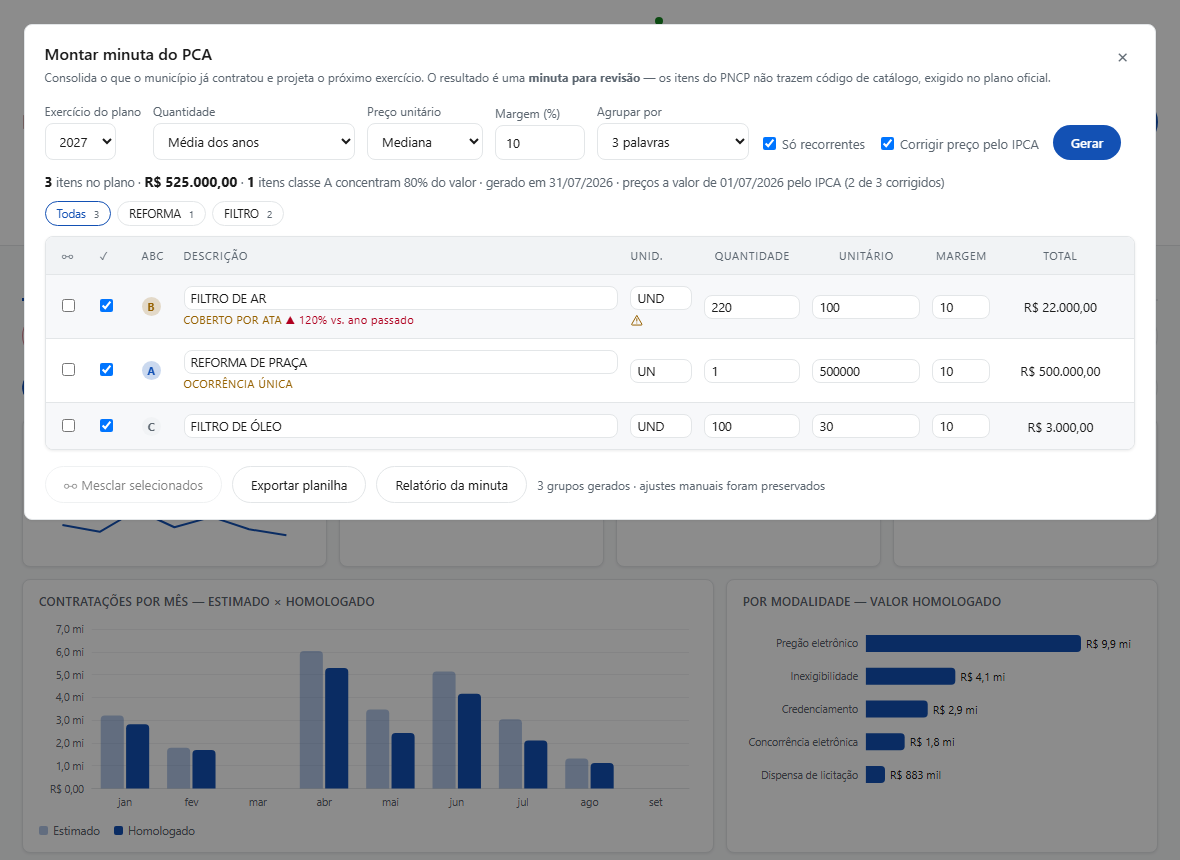
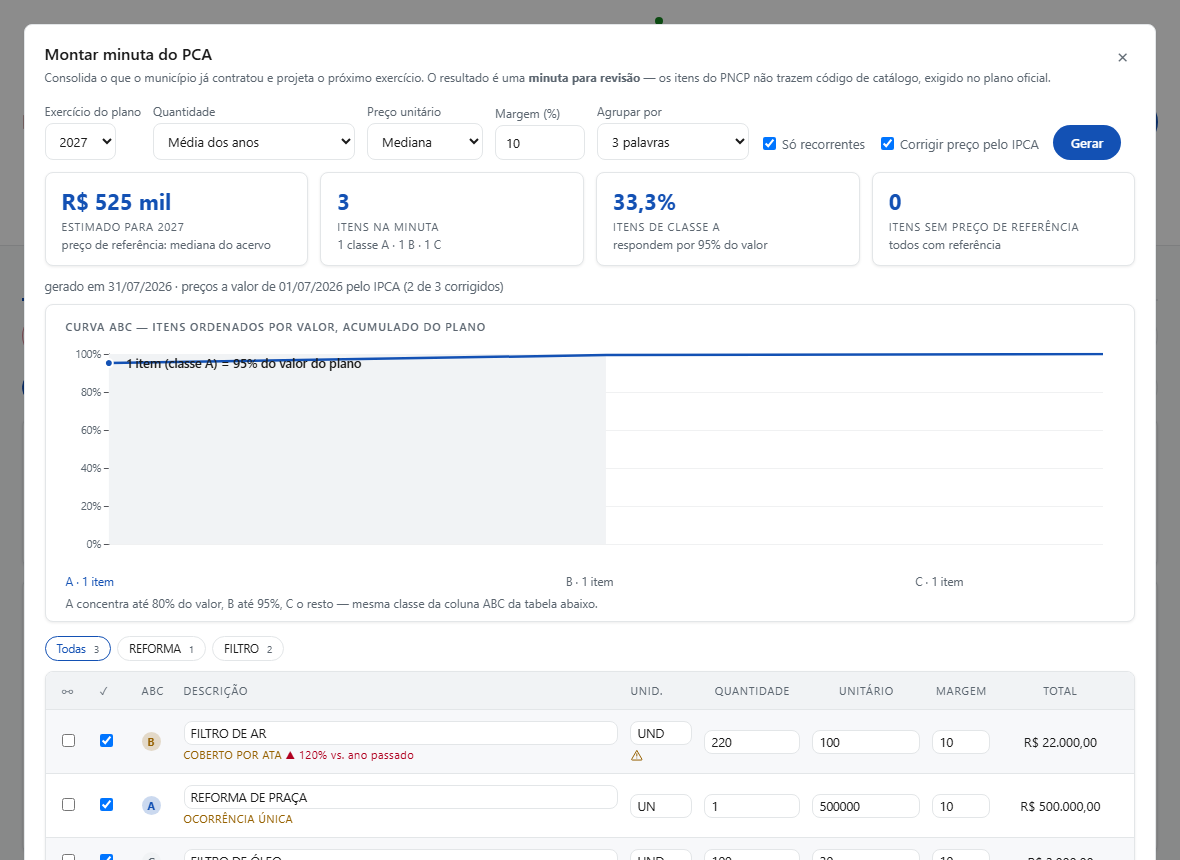
feat: curva ABC na tela de Montar PCA (Fase 1 do handoff de dashboard)
pca_builder.classificar_abc já calculava a classe A/B/C de cada item
(já aparecia na tabela), mas nunca virava agregado visual. Novo
grafCurvaABC mostra a curva acumulada com as faixas A/B/C sombreadas e
o corte de 80% rotulado; 4 cartões de KPI resumem o que antes só saía
numa linha de texto. Zero SQL nova.

Primeira de 12 fases do handoff "Dashboard de Licitações Públicas"
feito no Claude Design (plano em
C:\Users\devtu\.claude\plans\sorted-soaring-lamport.md).

diff --git a/MANUAL.html b/MANUAL.html
@@ -2,11 +2,11 @@
 <html lang="pt-BR">
 <head>
 <meta charset="utf-8">
-<title>Manual Operacional — Licitarium Free v2.0.0</title>
+<title>Manual Operacional — Licitarium Free v2.1.0</title>
 <style>
   @page {
     size: A4; margin: 2cm 1.8cm;
-    @top-center { content: "Licitarium Free v2.0.0 — Manual Operacional"; font-size: 9pt; color: #6f5b3e; }
+    @top-center { content: "Licitarium Free v2.1.0 — Manual Operacional"; font-size: 9pt; color: #6f5b3e; }
     @bottom-right { content: "Página " counter(page) " de " counter(pages);
                     font-size: 9pt; color: #6f5b3e; }
   }
@@ -155,7 +155,7 @@
     <path d="M21.22 61.67Q21.16 61.67 21.12 61.65Q21.09 61.64 21.09 61.61Q21.09 61.58 21.13 61.56Q21.17 61.54 21.23 61.53Q21.35 61.5 21.42 61.41Q21.5 61.32 21.52 61.17Q21.57 60.82 21.61 60.47Q21.64 60.11 21.67 59.79Q21.7 59.47 21.71 59.22Q21.71 59.19 21.71 59.14Q21.71 59.1 21.71 59.06Q21.7 59.01 21.69 58.97Q21.67 58.93 21.62 58.89Q21.55 58.83 21.47 58.81Q21.4 58.78 21.3 58.76Q21.26 58.75 21.23 58.73Q21.2 58.7 21.2 58.67Q21.2 58.63 21.24 58.62Q21.28 58.61 21.34 58.61Q21.4 58.61 21.49 58.61Q21.59 58.62 21.71 58.63Q21.82 58.63 21.93 58.64Q22.03 58.64 22.1 58.64Q22.14 58.64 22.16 58.66Q22.19 58.69 22.2 58.72Q22.22 58.81 22.25 58.89Q22.27 58.98 22.31 59.07L23.02 60.84Q23.03 60.87 23.06 60.88Q23.09 60.88 23.11 60.85L23.93 59.08Q23.96 58.98 23.98 58.88Q24 58.78 24.02 58.71Q24.03 58.65 24.07 58.65H24.25Q24.41 58.64 24.59 58.63Q24.76 58.61 24.85 58.61Q24.89 58.61 24.92 58.62Q24.96 58.63 24.96 58.66Q24.96 58.7 24.93 58.71Q24.9 58.73 24.84 58.76Q24.79 58.77 24.73 58.8Q24.67 58.82 24.62 58.84Q24.55 58.88 24.51 58.93Q24.46 58.98 24.47 59.07Q24.47 59.4 24.48 59.67Q24.5 59.94 24.51 60.19Q24.52 60.43 24.54 60.68Q24.56 60.93 24.57 61.2Q24.58 61.34 24.67 61.41Q24.75 61.49 24.92 61.52Q24.98 61.54 25.02 61.56Q25.05 61.57 25.05 61.61Q25.05 61.64 25.02 61.65Q24.99 61.67 24.93 61.67Q24.82 61.67 24.72 61.66Q24.62 61.65 24.53 61.65Q24.43 61.64 24.33 61.64Q24.24 61.64 24.16 61.65Q24.08 61.65 23.99 61.66Q23.9 61.67 23.78 61.67Q23.73 61.67 23.7 61.65Q23.66 61.64 23.66 61.61Q23.66 61.58 23.7 61.55Q23.73 61.53 23.8 61.52Q23.95 61.5 24 61.43Q24.06 61.36 24.06 61.2Q24.05 60.88 24.04 60.61Q24.04 60.34 24.02 60.07Q24.01 59.8 24 59.51Q23.99 59.46 23.97 59.47Q23.95 59.47 23.93 59.51L22.93 61.66Q22.92 61.7 22.88 61.7Q22.84 61.69 22.83 61.66Q22.63 61.12 22.41 60.59Q22.19 60.07 21.95 59.5Q21.94 59.47 21.91 59.47Q21.89 59.47 21.88 59.51Q21.85 59.8 21.83 60.07Q21.8 60.34 21.79 60.61Q21.78 60.88 21.78 61.17Q21.78 61.3 21.86 61.39Q21.94 61.49 22.09 61.52Q22.16 61.54 22.2 61.55Q22.24 61.57 22.24 61.61Q22.24 61.64 22.2 61.65Q22.16 61.67 22.11 61.67Q21.99 61.67 21.92 61.66Q21.86 61.65 21.81 61.65Q21.75 61.65 21.66 61.65Q21.57 61.65 21.51 61.65Q21.44 61.66 21.37 61.66Q21.3 61.67 21.22 61.67ZM25.84 61.67Q25.78 61.67 25.75 61.65Q25.72 61.64 25.72 61.61Q25.72 61.58 25.75 61.56Q25.79 61.54 25.86 61.53Q25.97 61.5 26.05 61.41Q26.13 61.32 26.15 61.17Q26.19 60.82 26.23 60.47Q26.27 60.11 26.3 59.79Q26.32 59.47 26.33 59.22Q26.34 59.19 26.34 59.14Q26.34 59.1 26.33 59.06Q26.33 59.01 26.31 58.97Q26.3 58.93 26.25 58.89Q26.17 58.83 26.1 58.81Q26.03 58.78 25.93 58.76Q25.88 58.75 25.85 58.73Q25.82 58.7 25.82 58.67Q25.82 58.63 25.86 58.62Q25.91 58.61 25.97 58.61Q26.02 58.61 26.12 58.61Q26.22 58.62 26.33 58.63Q26.45 58.63 26.56 58.64Q26.66 58.64 26.73 58.64Q26.76 58.64 26.79 58.66Q26.82 58.69 26.82 58.72Q26.85 58.81 26.88 58.89Q26.9 58.98 26.93 59.07L27.65 60.84Q27.66 60.87 27.69 60.88Q27.72 60.88 27.73 60.85L28.56 59.08Q28.58 58.98 28.61 58.88Q28.63 58.78 28.64 58.71Q28.66 58.65 28.7 58.65H28.88Q29.04 58.64 29.21 58.63Q29.39 58.61 29.48 58.61Q29.51 58.61 29.55 58.62Q29.59 58.63 29.59 58.66Q29.59 58.7 29.56 58.71Q29.53 58.73 29.47 58.76Q29.42 58.77 29.36 58.8Q29.3 58.82 29.25 58.84Q29.17 58.88 29.13 58.93Q29.09 58.98 29.09 59.07Q29.1 59.4 29.11 59.67Q29.12 59.94 29.14 60.19Q29.15 60.43 29.17 60.68Q29.18 60.93 29.2 61.2Q29.21 61.34 29.3 61.41Q29.38 61.49 29.54 61.52Q29.61 61.54 29.65 61.56Q29.68 61.57 29.68 61.61Q29.68 61.64 29.65 61.65Q29.61 61.67 29.56 61.67Q29.44 61.67 29.34 61.66Q29.25 61.65 29.15 61.65Q29.06 61.64 28.96 61.64Q28.87 61.64 28.79 61.65Q28.71 61.65 28.62 61.66Q28.53 61.67 28.41 61.67Q28.36 61.67 28.32 61.65Q28.29 61.64 28.29 61.61Q28.29 61.58 28.32 61.55Q28.36 61.53 28.43 61.52Q28.57 61.5 28.63 61.43Q28.68 61.36 28.68 61.2Q28.68 60.88 28.67 60.61Q28.66 60.34 28.65 60.07Q28.64 59.8 28.63 59.51Q28.62 59.46 28.6 59.47Q28.58 59.47 28.56 59.51L27.56 61.66Q27.55 61.7 27.51 61.7Q27.47 61.69 27.46 61.66Q27.26 61.12 27.04 60.59Q26.82 60.07 26.58 59.5Q26.57 59.47 26.54 59.47Q26.52 59.47 26.51 59.51Q26.48 59.8 26.45 60.07Q26.43 60.34 26.42 60.61Q26.41 60.88 26.41 61.17Q26.41 61.3 26.49 61.39Q26.57 61.49 26.72 61.52Q26.79 61.54 26.83 61.55Q26.87 61.57 26.87 61.61Q26.87 61.64 26.83 61.65Q26.79 61.67 26.74 61.67Q26.61 61.67 26.55 61.66Q26.48 61.65 26.43 61.65Q26.38 61.65 26.29 61.65Q26.2 61.65 26.13 61.65Q26.07 61.66 26 61.66Q25.93 61.67 25.84 61.67ZM30.37 61.67Q30.31 61.67 30.27 61.66Q30.23 61.65 30.23 61.61Q30.23 61.58 30.27 61.56Q30.31 61.54 30.37 61.51Q30.46 61.49 30.57 61.44Q30.67 61.38 30.79 61.29Q30.9 61.2 31 61.07L31.58 60.35Q31.63 60.28 31.64 60.21Q31.66 60.14 31.59 60.05L30.96 59.16Q30.86 59.03 30.79 58.95Q30.71 58.87 30.63 58.83Q30.56 58.8 30.48 58.77Q30.41 58.75 30.37 58.73Q30.34 58.71 30.34 58.67Q30.34 58.64 30.37 58.63Q30.41 58.62 30.46 58.62Q30.61 58.62 30.81 58.63Q31.01 58.64 31.2 58.64Q31.34 58.64 31.47 58.63Q31.61 58.62 31.7 58.62Q31.75 58.62 31.79 58.64Q31.83 58.65 31.83 58.68Q31.83 58.72 31.79 58.74Q31.75 58.76 31.69 58.78Q31.56 58.81 31.5 58.84Q31.44 58.87 31.44 58.93Q31.44 59 31.56 59.18L31.99 59.77Q32.04 59.84 32.07 59.84Q32.1 59.84 32.14 59.78L32.59 59.18Q32.65 59.1 32.68 59.04Q32.71 58.98 32.71 58.93Q32.71 58.88 32.66 58.84Q32.61 58.8 32.5 58.78Q32.46 58.77 32.4 58.74Q32.35 58.72 32.35 58.68Q32.35 58.65 32.39 58.64Q32.43 58.63 32.49 58.63Q32.56 58.63 32.62 58.63Q32.68 58.63 32.74 58.63Q32.81 58.64 32.88 58.64Q33.02 58.64 33.15 58.62Q33.28 58.61 33.39 58.61Q33.45 58.61 33.49 58.62Q33.53 58.63 33.53 58.67Q33.53 58.7 33.49 58.72Q33.45 58.74 33.38 58.76Q33.26 58.79 33.12 58.93Q32.97 59.06 32.85 59.21L32.28 59.9Q32.22 59.97 32.21 60.01Q32.2 60.04 32.23 60.1L32.97 61.16Q33.06 61.29 33.18 61.39Q33.29 61.48 33.41 61.51Q33.48 61.53 33.52 61.55Q33.57 61.58 33.57 61.61Q33.57 61.64 33.53 61.66Q33.49 61.67 33.44 61.67Q33.33 61.67 33.21 61.66Q33.08 61.66 32.94 61.65Q32.81 61.64 32.69 61.64Q32.55 61.64 32.42 61.65Q32.29 61.65 32.19 61.65Q32.13 61.65 32.09 61.64Q32.05 61.62 32.05 61.59Q32.05 61.56 32.1 61.53Q32.15 61.51 32.2 61.5Q32.28 61.48 32.35 61.43Q32.42 61.38 32.42 61.29Q32.42 61.26 32.41 61.23Q32.4 61.19 32.37 61.16L31.89 60.45Q31.84 60.39 31.81 60.38Q31.78 60.38 31.75 60.43L31.19 61.17Q31.16 61.22 31.14 61.26Q31.13 61.3 31.13 61.33Q31.14 61.39 31.19 61.44Q31.25 61.49 31.34 61.51Q31.41 61.52 31.45 61.54Q31.49 61.57 31.49 61.6Q31.49 61.63 31.45 61.64Q31.42 61.66 31.36 61.66Q31.27 61.66 31.15 61.65Q31.03 61.65 30.92 61.65Q30.77 61.65 30.63 61.66Q30.49 61.67 30.37 61.67ZM34.14 61.67Q34.08 61.67 34.04 61.66Q34 61.65 34 61.61Q34 61.58 34.04 61.56Q34.08 61.54 34.14 61.51Q34.23 61.49 34.34 61.44Q34.44 61.38 34.56 61.29Q34.67 61.2 34.77 61.07L35.35 60.35Q35.4 60.28 35.41 60.21Q35.43 60.14 35.36 60.05L34.73 59.16Q34.63 59.03 34.56 58.95Q34.48 58.87 34.4 58.83Q34.33 58.8 34.25 58.77Q34.18 58.75 34.14 58.73Q34.11 58.71 34.11 58.67Q34.11 58.64 34.14 58.63Q34.18 58.62 34.23 58.62Q34.38 58.62 34.58 58.63Q34.78 58.64 34.97 58.64Q35.11 58.64 35.24 58.63Q35.38 58.62 35.47 58.62Q35.52 58.62 35.56 58.64Q35.6 58.65 35.6 58.68Q35.6 58.72 35.56 58.74Q35.52 58.76 35.46 58.78Q35.33 58.81 35.27 58.84Q35.21 58.87 35.21 58.93Q35.21 59 35.33 59.18L35.76 59.77Q35.81 59.84 35.84 59.84Q35.87 59.84 35.91 59.78L36.36 59.18Q36.42 59.1 36.45 59.04Q36.48 58.98 36.48 58.93Q36.48 58.88 36.43 58.84Q36.38 58.8 36.27 58.78Q36.23 58.77 36.18 58.74Q36.12 58.72 36.12 58.68Q36.12 58.65 36.16 58.64Q36.2 58.63 36.26 58.63Q36.33 58.63 36.39 58.63Q36.45 58.63 36.51 58.63Q36.58 58.64 36.65 58.64Q36.79 58.64 36.92 58.62Q37.05 58.61 37.16 58.61Q37.22 58.61 37.26 58.62Q37.3 58.63 37.3 58.67Q37.3 58.7 37.26 58.72Q37.22 58.74 37.15 58.76Q37.03 58.79 36.89 58.93Q36.74 59.06 36.62 59.21L36.05 59.9Q35.99 59.97 35.98 60.01Q35.97 60.04 36 60.1L36.74 61.16Q36.83 61.29 36.95 61.39Q37.06 61.48 37.18 61.51Q37.25 61.53 37.29 61.55Q37.34 61.58 37.34 61.61Q37.34 61.64 37.3 61.66Q37.26 61.67 37.21 61.67Q37.1 61.67 36.98 61.66Q36.85 61.66 36.71 61.65Q36.58 61.64 36.46 61.64Q36.32 61.64 36.19 61.65Q36.06 61.65 35.96 61.65Q35.9 61.65 35.86 61.64Q35.82 61.62 35.82 61.59Q35.82 61.56 35.87 61.53Q35.92 61.51 35.97 61.5Q36.05 61.48 36.12 61.43Q36.2 61.38 36.2 61.29Q36.2 61.26 36.18 61.23Q36.17 61.19 36.14 61.16L35.66 60.45Q35.61 60.39 35.58 60.38Q35.55 60.38 35.52 60.43L34.96 61.17Q34.93 61.22 34.91 61.26Q34.9 61.3 34.9 61.33Q34.91 61.39 34.96 61.44Q35.02 61.49 35.11 61.51Q35.18 61.52 35.22 61.54Q35.26 61.57 35.26 61.6Q35.26 61.63 35.22 61.64Q35.19 61.66 35.13 61.66Q35.04 61.66 34.92 61.65Q34.8 61.65 34.69 61.65Q34.54 61.65 34.4 61.66Q34.26 61.67 34.14 61.67ZM39.32 61.71Q39.27 61.71 39.25 61.66Q39.23 61.61 39.19 61.51Q39.16 61.41 39.13 61.34L38.26 59.11Q38.21 58.99 38.14 58.9Q38.06 58.81 37.93 58.78Q37.87 58.76 37.83 58.74Q37.79 58.71 37.79 58.68Q37.79 58.65 37.83 58.63Q37.86 58.62 37.92 58.62Q38 58.62 38.1 58.63Q38.2 58.63 38.31 58.63Q38.42 58.64 38.52 58.64Q38.61 58.64 38.72 58.63Q38.82 58.63 38.92 58.63Q39.02 58.62 39.08 58.62Q39.13 58.62 39.17 58.64Q39.21 58.65 39.21 58.68Q39.21 58.72 39.17 58.74Q39.13 58.77 39.07 58.78Q38.93 58.79 38.85 58.84Q38.78 58.88 38.78 58.96Q38.78 59.02 38.79 59.07Q38.81 59.12 38.82 59.15L39.46 60.88Q39.47 60.9 39.48 60.91Q39.5 60.91 39.51 60.87L40.11 59.3Q40.2 59.05 40.13 58.93Q40.06 58.8 39.89 58.78Q39.83 58.77 39.79 58.74Q39.74 58.72 39.74 58.68Q39.74 58.65 39.78 58.64Q39.82 58.63 39.88 58.63Q39.95 58.63 40.02 58.63Q40.09 58.63 40.17 58.63Q40.24 58.64 40.33 58.64Q40.47 58.64 40.61 58.63Q40.75 58.62 40.85 58.62Q40.91 58.62 40.95 58.63Q40.99 58.64 40.99 58.68Q40.99 58.71 40.95 58.73Q40.91 58.75 40.84 58.77Q40.68 58.81 40.58 58.92Q40.47 59.04 40.41 59.19L39.59 61.15Q39.56 61.23 39.52 61.32Q39.49 61.41 39.45 61.5Q39.42 61.59 39.38 61.66Q39.38 61.69 39.36 61.7Q39.34 61.71 39.32 61.71ZM41.59 61.67Q41.54 61.67 41.51 61.65Q41.47 61.64 41.47 61.61Q41.47 61.55 41.61 61.52Q41.78 61.49 41.87 61.42Q41.95 61.35 41.95 61.19V59.1Q41.95 58.94 41.89 58.87Q41.82 58.81 41.64 58.77Q41.51 58.75 41.51 58.68Q41.51 58.65 41.54 58.63Q41.58 58.62 41.63 58.62Q41.75 58.62 41.84 58.63Q41.93 58.63 42.02 58.63Q42.11 58.64 42.21 58.64Q42.31 58.64 42.4 58.63Q42.48 58.63 42.57 58.63Q42.66 58.62 42.78 58.62Q42.83 58.62 42.86 58.63Q42.9 58.65 42.9 58.68Q42.9 58.71 42.86 58.74Q42.83 58.76 42.76 58.77Q42.59 58.81 42.51 58.88Q42.44 58.94 42.44 59.1V61.19Q42.44 61.35 42.53 61.42Q42.61 61.48 42.79 61.52Q42.86 61.54 42.89 61.56Q42.92 61.57 42.92 61.61Q42.92 61.64 42.89 61.65Q42.86 61.67 42.81 61.67Q42.69 61.67 42.59 61.66Q42.5 61.65 42.41 61.65Q42.32 61.64 42.21 61.64Q42.1 61.64 42.01 61.65Q41.91 61.65 41.81 61.66Q41.71 61.67 41.59 61.67Z" fill="var(--text)" opacity=".85"/>
   </svg>
   <h1 class="mark">LICITARI<b>V</b>M</h1>
-  <div class="subtitulo">MANUAL DO USUÁRIO · VERSÃO 2.0.0</div>
+  <div class="subtitulo">MANUAL DO USUÁRIO · VERSÃO 2.1.0</div>
 </header>
 
 <h2>1. O que é o Licitarium</h2>

diff --git a/ui/painel.js b/ui/painel.js
@@ -588,6 +588,81 @@ function grafConcentracao(el, curva, total) {
   });
 }
 
+// ── curva ABC do PCA: itens ordenados por valor, acumulado do plano ───────
+// Handoff Claude Design (2026-09-11): a classe (`i.abc`) já era calculada
+// por `pca_builder.classificar_abc` e mostrada linha a linha na tabela —
+// só faltava o agregado visual. Mesmo agrupamento "incluídos" que
+// `pca_builder.totais` usa, pra bater com os números do `#pca-kpis` ao
+// lado (senão "214 itens" do KPI e "N itens" da curva divergiam).
+function grafCurvaABC(el, itens, larg = 660) {
+  const validos = itens.filter(i => (i.incluir ?? 1) && (i.valor_total || 0) > 0)
+    .slice().sort((a, b) => b.valor_total - a.valor_total);
+  if (validos.length < 3) {
+    el.innerHTML = `<div class="vazio">Poucos itens com valor pra traçar a curva.</div>`;
+    return null;
+  }
+  const total = validos.reduce((s, i) => s + i.valor_total, 0);
+  let acumulado = 0;
+  const curva = validos.map(i => {
+    acumulado += i.valor_total;
+    return (acumulado / total) * 100;
+  });
+  const nA = validos.filter(i => i.abc === "A").length;
+  const nB = validos.filter(i => i.abc === "B").length;
+  const nC = validos.length - nA - nB;
+  const fimA = Math.max(0, nA - 1), fimB = Math.max(fimA, nA + nB - 1);
+
+  el.innerHTML = `<div class="graf-echart" style="height:230px"></div>
+    <div class="leg" style="display:grid;grid-template-columns:${
+      (((fimA + 1) / validos.length) * 100).toFixed(1)}% ${
+      ((nB / validos.length) * 100).toFixed(1)}% 1fr;gap:0;margin-top:2px">
+      <span style="color:var(--s1)">A · ${nA} ${nA === 1 ? "item" : "itens"}</span>
+      <span style="justify-self:center">B · ${nB} ${nB === 1 ? "item" : "itens"}</span>
+      <span style="justify-self:center">C · ${nC} ${nC === 1 ? "item" : "itens"}</span>
+    </div>
+    <div class="dim" style="font-size:12px;margin-top:6px">A concentra até
+      80% do valor, B até 95%, C o resto — mesma classe da coluna ABC da
+      tabela abaixo.</div>`;
+  const alvo = el.querySelector(".graf-echart");
+  const chart = _iniciarEchart(alvo);
+  chart.setOption({
+    animation: false,
+    grid: { left: 8, right: 12, top: 12, bottom: 8, containLabel: true },
+    xAxis: { type: "value", min: 0, max: validos.length - 1, show: false },
+    yAxis: { type: "value", min: 0, max: 100, axisLabel: { ...ROT_TXT,
+        formatter: "{value}%" },
+      splitLine: { lineStyle: { color: COR_EIXO, opacity: .55 } } },
+    series: [{
+      type: "line", symbol: "none", silent: true,
+      data: curva.map((v, i) => [i, v]),
+      lineStyle: { color: "var(--s1)", width: 2.5 },
+      markArea: { silent: true, data: [
+        [{ xAxis: 0, itemStyle: { color: "var(--seq1)" } }, { xAxis: fimA }],
+        [{ xAxis: fimA, itemStyle: { color: "var(--surface2)" } }, { xAxis: fimB }],
+      ] },
+      markPoint: {
+        silent: true, symbol: "circle", symbolSize: 8,
+        itemStyle: { color: "var(--s1)", borderColor: "var(--surface)", borderWidth: 2 },
+        label: { show: true, position: "right", offset: [8, 0],
+          fontFamily: _fonteUI(), fontSize: 12.5, fontWeight: 600,
+          color: "var(--text)",
+          formatter: () => `${nA} ${nA === 1 ? "item" : "itens"} (classe A) = ${
+            pct(curva[fimA], 0)} do valor do plano` },
+        data: [{ coord: [fimA, curva[fimA]] }],
+      },
+    }],
+  });
+  ligarBaloEixo(chart, alvo, (i) => {
+    const idx = Math.max(0, Math.min(validos.length - 1, i));
+    return [{ v: `${pct(curva[idx], 0)} do valor`, cor: "var(--s1)",
+      l: `${idx + 1}º item · classe ${validos[idx].abc}` }];
+  });
+  // devolvido pro chamador: os cartões de KPI acima do gráfico mostram a
+  // mesma conta (nº de itens por classe, % do valor em A) — uma fonte só,
+  // pra não divergir do que a curva desenha
+  return { nA, nB, nC, pctValorA: curva[fimA] };
+}
+
 // ── calor: processos por mês e modalidade, rampa de uma cor só ────────────
 function grafCalor(el, calor, meses) {
   const linhas = Object.entries(calor);

diff --git a/ui/app.js b/ui/app.js
@@ -1164,19 +1164,58 @@ async function carregarMinuta() {
       familiaFiltro = b.dataset.familia || null;
       carregarMinuta();
     }));
-  const classeA = dados.itens.filter(i => i.abc === "A").length;
   const p = dados.parametros || {};
   $("pca-totais").innerHTML = dados.itens.length
-    ? `<b>${t.grupos}</b> itens no plano · <b>${dinheiro(t.valor)}</b>
-       ${classeA ? ` · <b>${classeA}</b> itens classe A concentram 80% do valor` : ""}
-       ${t.excluidos ? ` · ${t.excluidos} excluído(s)` : ""}
-       ${dados.gerado_em ? ` · gerado em ${dataBr(dados.gerado_em)}` : ""}
-       ${p.ipca_ate ? ` · preços a valor de ${dataBr(p.ipca_ate + "-01")}
-         pelo IPCA (${p.precos_corrigidos} de ${p.total_precos} corrigidos)`
-         : (p.corrigir_ipca === false ? "" :
-            " · sem série do IPCA sincronizada ainda: preços sem correção")}`
+    ? [
+        t.excluidos ? `${t.excluidos} excluído(s)` : null,
+        dados.gerado_em ? `gerado em ${dataBr(dados.gerado_em)}` : null,
+        p.ipca_ate
+          ? `preços a valor de ${dataBr(p.ipca_ate + "-01")} pelo IPCA (${
+              p.precos_corrigidos} de ${p.total_precos} corrigidos)`
+          : (p.corrigir_ipca === false ? null
+              : "sem série do IPCA sincronizada ainda: preços sem correção"),
+      ].filter(Boolean).join(" · ")
     : `Nenhuma minuta para este exercício — ajuste os parâmetros e clique em
        <b>Gerar</b>.`;
+  // curva ABC (handoff Claude Design, 2026-09-11): resumo em 4 KPIs +
+  // gráfico acumulado, só quando há minuta de verdade
+  const incluidos = dados.itens.filter(i => i.incluir ?? 1);
+  const rotuloEstatistica = { mediana: "mediana", media: "média",
+    recente: "mais recente", menor: "menor" }[p.estatistica] ?? "mediana";
+  if (dados.itens.length) {
+    const semReferencia = incluidos.filter(i => !i.valor_unitario).length;
+    // precisa ficar visível ANTES de desenhar: ECharts mede a largura do
+    // container no momento de echarts.init, e um <div class="oculto">
+    // (display:none) mede 0 — o gráfico nasceria vazio e não se corrige
+    // sozinho depois (achado da Fase 6 do redesenho anterior, mesma classe
+    // de bug — "el.style.height/visibilidade precisa vir antes de desenhar")
+    $("pca-abc-caixa").classList.remove("oculto");
+    const resumoAbc = grafCurvaABC($("pca-abc"), dados.itens);
+    const nA = resumoAbc?.nA ?? 0;
+    $("pca-kpis").innerHTML = `
+      <div class="card kpi"><div class="n">${compacto(t.valor)}</div>
+        <div class="l">Estimado para ${+$("pca-ano").value}</div>
+        <div class="r">preço de referência: ${rotuloEstatistica} do acervo</div></div>
+      <div class="card kpi"><div class="n">${t.grupos}</div>
+        <div class="l">Itens na minuta</div>
+        <div class="r">${resumoAbc
+          ? `${resumoAbc.nA} classe A · ${resumoAbc.nB} B · ${resumoAbc.nC} C`
+          : "poucos itens com valor pra classificar"}</div></div>
+      <div class="card kpi"><div class="n">${incluidos.length
+          ? pct(nA / incluidos.length * 100, 1) : "–"}</div>
+        <div class="l">Itens de classe A</div>
+        <div class="r">${resumoAbc
+          ? `respondem por ${pct(resumoAbc.pctValorA, 0)} do valor`
+          : "sem itens suficientes"}</div></div>
+      <div class="card kpi"><div class="n">${semReferencia}</div>
+        <div class="l">Itens sem preço de referência</div>
+        <div class="r"${semReferencia ? ' style="color:var(--warn)"' : ""}
+          >${semReferencia ? "precisam de pesquisa antes da minuta"
+            : "todos com referência"}</div></div>`;
+  } else {
+    $("pca-kpis").innerHTML = "";
+    $("pca-abc-caixa").classList.add("oculto");
+  }
   const cab = `<div class="linha cab g-pca-minuta">
       <span title="Selecionar para mesclar">⚯</span>
       <span title="Incluir no plano">✓</span>

diff --git a/tests-e2e/app.spec.js b/tests-e2e/app.spec.js
@@ -370,11 +370,13 @@ test("montador de PCA gera, edita e recalcula os totais", async ({ page }) => {
   // sinalizações que orientam a revisão
   await expect(linhas.nth(0).locator(".aviso-un")).toBeVisible();
   await expect(linhas.nth(1).locator(".tag-unico")).toContainText("ÚNICA");
-  await expect(page.locator("#pca-totais")).toContainText("525.000,00");
+  // total agora mora no 1º KPI da curva ABC (handoff Claude Design,
+  // 2026-09-11), em formato compacto — mesma convenção do hero do Painel
+  await expect(page.locator("#pca-kpis .kpi").first()).toContainText("525 mil");
   // editar a quantidade recalcula o total
   await linhas.nth(0).locator('[data-campo="quantidade"]').fill("300");
   await linhas.nth(0).locator('[data-campo="quantidade"]').blur();
-  await expect(page.locator("#pca-totais")).toContainText("533.000,00");
+  await expect(page.locator("#pca-kpis .kpi").first()).toContainText("533 mil");
   // excluir um item sai da conta e é contado como excluído
   await linhas.nth(1).locator('[data-campo="incluir"]').uncheck();
   await expect(page.locator("#pca-totais")).toContainText("1 excluído");
@@ -392,7 +394,7 @@ test("PCA: famílias filtram, ABC classifica e mesclagem funde itens",
   await expect(linhas).toHaveCount(3);
   // curva ABC destacada e resumida no topo
   await expect(linhas.nth(0).locator(".abc")).toHaveText("B");
-  await expect(page.locator("#pca-totais")).toContainText("classe A");
+  await expect(page.locator("#pca-kpis")).toContainText("classe A");
   // chips por família: FILTRO tem 2 itens
   const chipFiltro = page.locator('#pca-familias button[data-familia="FILTRO"]');
   await expect(chipFiltro).toContainText("2");

diff --git a/ui/estilo.css b/ui/estilo.css
@@ -558,6 +558,12 @@ details.raw pre { background:var(--surface2); border-radius:var(--radius);
 #precos-kpis { grid-template-columns:repeat(4,1fr); margin-bottom:0; }
 #precos-kpis .kpi { cursor:default; }
 #precos-kpis .kpi:hover { border-color:var(--border); }
+/* PCA (handoff Claude Design, 2026-09-11): mesmo padrão de #precos-kpis —
+   4 colunas, não clicável, com linha extra de contexto (.r) que o KPI do
+   topo do Painel também usa */
+#pca-kpis { grid-template-columns:repeat(4,1fr); margin-bottom:0; }
+#pca-kpis .kpi { cursor:default; }
+#pca-kpis .kpi:hover { border-color:var(--border); }
 .topo-painel { display:flex; justify-content:space-between; align-items:center; }
 .grade-painel { display:grid; grid-template-columns:1fr 1fr; gap:16px; }
 .tit-painel { font-size:12.5px; color:var(--muted); font-weight:600;
@@ -707,7 +713,7 @@ details.raw pre { background:var(--surface2); border-radius:var(--radius);
 .card.hero { container-type:inline-size; }
 .hero .n { font-size:clamp(20px, 11cqw, 27px); font-weight:700;
            line-height:1.05; white-space:nowrap; }
-.hero .r, .kpiv .r { font-size:12px; color:var(--muted); margin-top:2px; }
+.hero .r, .kpiv .r, .kpi .r { font-size:12px; color:var(--muted); margin-top:2px; }
 .kpiv .v { font-size:22px; font-weight:700; }
 .kpiv .r { font-size:11px; text-transform:uppercase; letter-spacing:.05em; }
 /* Verde e vermelho afirmam "bom" e "ruim": só valem onde a direção do

diff --git a/ui/index.html b/ui/index.html
@@ -318,7 +318,12 @@
         <input type="checkbox" id="pca-ipca" checked> Corrigir preço pelo IPCA</label>
       <button class="btn" id="pca-gerar" style="align-self:end">Gerar</button>
     </div>
+    <div class="kpis" id="pca-kpis" style="margin:0 20px 12px"></div>
     <div class="pca-totais" id="pca-totais"></div>
+    <div class="card oculto" id="pca-abc-caixa" style="margin:0 20px 14px;padding:16px 20px 10px">
+      <div style="font:600 11px/1 system-ui;letter-spacing:.08em;text-transform:uppercase;color:var(--muted)">Curva ABC — itens ordenados por valor, acumulado do plano</div>
+      <div id="pca-abc" style="margin-top:10px"></div>
+    </div>
     <div class="familias" id="pca-familias"></div>
     <div class="card lista" id="pca-lista" style="margin:0 20px"></div>
     <div class="macoes">

diff --git a/licitarium.py b/licitarium.py
@@ -28,7 +28,7 @@ import pca_builder
 import pncp
 import relatorios
 
-VERSAO = "2.0.0"
+VERSAO = "2.1.0"
 # dentro do exe onefile os arquivos ficam na pasta temporária do bundle;
 # _MEIPASS é o caminho oficial para chegar até eles
 DIR_APP = Path(getattr(sys, "_MEIPASS", Path(__file__).resolve().parent))

diff --git a/CHANGELOG.md b/CHANGELOG.md
@@ -1,5 +1,23 @@
 # Changelog
 
+## 2.1.0 — 2026-09-11
+
+**Adição — Fase 1 do handoff "Dashboard de Licitações Públicas" (Claude Design)**
+
+- **Montar PCA ganha a curva ABC.** `pca_builder.classificar_abc` já
+  calculava a classe A/B/C de cada item da minuta (já aparecia linha a
+  linha na tabela), mas nunca virava o agregado visual — quantos itens
+  em cada classe, e quanto do valor a classe A concentra. Novo gráfico
+  (`grafCurvaABC`) mostra a curva acumulada com as três faixas
+  sombreadas e o ponto de corte de 80% rotulado; 4 novos cartões de KPI
+  acima (estimado do ano, itens por classe, % de itens classe A,
+  itens sem preço de referência) resumem o que antes só saía numa
+  linha de texto corrida. Zero SQL nova — só expõe o que o back-end já
+  calculava.
+- Primeira fase de 12 do handoff completo de 13 telas (detalhe em
+  `C:\Users\devtu\.claude\plans\sorted-soaring-lamport.md`). 287 pytest
+  + 169 Playwright verdes.
+
 ## 2.0.0 — 2026-09-11
 
 **Reversão — decisão do usuário**
